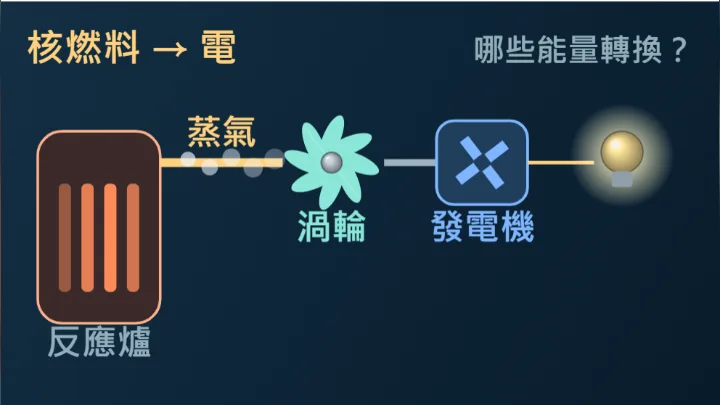
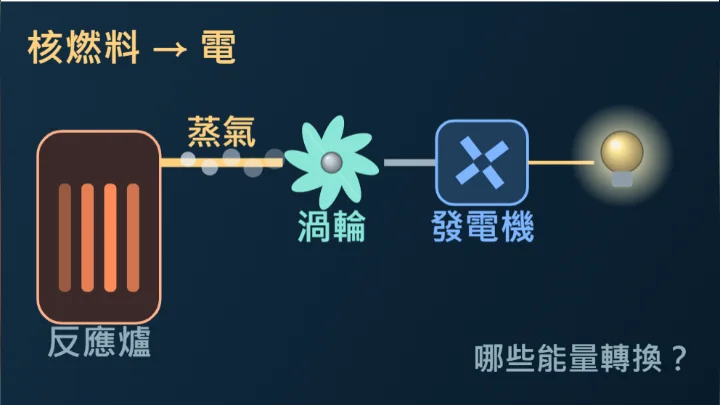
學測 113 題目圖英文版：第 19、24、25 題字不再重疊
第 19 題問句移到右下、英文標題改短、機器標籤英文版倍率調小；第 24 題 Heat out；
第 25 題 Pay 1 unit／Move 2.5 units，公式說明下移。縮圖重產。

Changed region(s): [[0.6417, 0.8296, 0.9778, 0.9185], [0.6417, 0.0889, 0.9778, 0.1778]]

diff --git a/learn.html b/learn.html
@@ -58,7 +58,7 @@
         <section><h3 data-en="Magnetic effects of current">電流的磁效應</h3><a href="current-balance.html?mode=learn&amp;study=1" class="study-link"><img class="module-thumb" data-thumb="current-balance" src="img/thumbs/current-balance-hant-light.webp" alt=""><span data-en="Current balance">電流天平</span><i>↗</i></a></section>
       </div>
     </section>
-    <section id="exam" hidden><a class="lobby-back" href="learn.html" data-en="‹ Physics Study Room">‹ 物理自習室</a><h2 data-en="GSAT science">學測自然科</h2><nav id="exam-years" role="tablist" aria-label="學年度" data-en-aria-label="Exam year"><button type="button" role="tab" aria-selected="true" data-year="114" data-en="2025 (114)">114 學年度</button><button type="button" role="tab" aria-selected="false" data-year="113" data-en="2024 (113)">113 學年度</button></nav><div id="exam-114" role="tabpanel"><p class="exam-year-note" data-en="GSAT, January 2025 · physics questions">114 學測（2025 年 1 月）・物理題</p><div class="exam-entries"><a class="study-link" href="exam-114.html?q=19"><span class="exam-thumb"><img class="module-thumb" data-exam-thumb="exam-114-19" data-v="b3a9e36a" src="img/thumbs/exam-114-19-hant-light.webp?v=b3a9e36a" alt=""><b>19</b></span><span data-en="Satellite orbits">衛星的軌道</span><i>→</i></a><a class="study-link" href="exam-114.html?q=20"><span class="exam-thumb"><img class="module-thumb" data-exam-thumb="exam-114-20" data-v="4937b497" src="img/thumbs/exam-114-20-hant-light.webp?v=4937b497" alt=""><b>20</b></span><span data-en="Melting ice with Bitcoin">比特幣融冰山</span><i>→</i></a><a class="study-link" href="exam-114.html?q=21"><span class="exam-thumb"><img class="module-thumb" data-exam-thumb="exam-114-21" data-v="06e7758c" src="img/thumbs/exam-114-21-hant-light.webp?v=06e7758c" alt=""><b>21</b></span><span data-en="Lifting a reservoir">把水庫抬上玉山</span><i>→</i></a><a class="study-link" href="exam-114.html?q=22"><span class="exam-thumb"><img class="module-thumb" data-exam-thumb="exam-114-22" data-v="fa97e2ad" src="img/thumbs/exam-114-22-hant-light.webp?v=fa97e2ad" alt=""><b>22</b></span><span data-en="Average speed to Mars">飛到火星的平均速率</span><i>→</i></a><a class="study-link" href="exam-114.html?q=23"><span class="exam-thumb"><img class="module-thumb" data-exam-thumb="exam-114-23" data-v="dce8cce7" src="img/thumbs/exam-114-23-hant-light.webp?v=dce8cce7" alt=""><b>23</b></span><span data-en="Signals from a spacecraft">太空船的訊號</span><i>→</i></a><a class="study-link" href="exam-114.html?q=24"><span class="exam-thumb"><img class="module-thumb" data-exam-thumb="exam-114-24" data-v="7d564140" src="img/thumbs/exam-114-24-hant-light.webp?v=7d564140" alt=""><b>24</b></span><span data-en="Atomic energy levels">原子能階</span><i>→</i></a><a class="study-link" href="exam-114.html?q=25"><span class="exam-thumb"><img class="module-thumb" data-exam-thumb="exam-114-25" data-v="9355cca3" src="img/thumbs/exam-114-25-hant-light.webp?v=9355cca3" alt=""><b>25</b></span><span data-en="Electron double slit">電子雙狹縫</span><i>→</i></a><a class="study-link" href="exam-114.html?q=26"><span class="exam-thumb"><img class="module-thumb" data-exam-thumb="exam-114-26" data-v="2d97acb7" src="img/thumbs/exam-114-26-hant-light.webp?v=2d97acb7" alt=""><b>26</b></span><span data-en="Fundamental interactions">四種基本交互作用</span><i>→</i></a><a class="study-link" href="exam-114.html?q=27"><span class="exam-thumb"><img class="module-thumb" data-exam-thumb="exam-114-27" data-v="1c0a8fb7" src="img/thumbs/exam-114-27-hant-light.webp?v=1c0a8fb7" alt=""><b>27</b></span><span data-en="Wireless charging">手機無線充電</span><i>→</i></a><a class="study-link" href="exam-114.html?q=47"><span class="exam-thumb"><img class="module-thumb" data-exam-thumb="exam-114-47" data-v="ed5fa1e2" src="img/thumbs/exam-114-47-hant-light.webp?v=ed5fa1e2" alt=""><b>47</b></span><span data-en="Units in the membrane model">神經細胞膜：單位</span><i>→</i></a><a class="study-link" href="exam-114.html?q=48"><span class="exam-thumb"><img class="module-thumb" data-exam-thumb="exam-114-48" data-v="3ec1ac73" src="img/thumbs/exam-114-48-hant-light.webp?v=3ec1ac73" alt=""><b>48</b></span><span data-en="Equilibrium voltage and temperature">平衡電壓與絕對溫度</span><i>→</i></a><a class="study-link" href="exam-114.html?q=49"><span class="exam-thumb"><img class="module-thumb" data-exam-thumb="exam-114-49" data-v="d47eb398" src="img/thumbs/exam-114-49-hant-light.webp?v=d47eb398" alt=""><b>49</b></span><span data-en="The sodium channel">鈉離子通道</span><i>→</i></a><a class="study-link" href="exam-114.html?q=50"><span class="exam-thumb"><img class="module-thumb" data-exam-thumb="exam-114-50" data-v="a2c1b88e" src="img/thumbs/exam-114-50-hant-light.webp?v=a2c1b88e" alt=""><b>50</b></span><span data-en="Band gap of a photocatalyst">光觸媒的能隙</span><i>→</i></a><a class="study-link" href="exam-114.html?q=51"><span class="exam-thumb"><img class="module-thumb" data-exam-thumb="exam-114-51" data-v="b26057d1" src="img/thumbs/exam-114-51-hant-light.webp?v=b26057d1" alt=""><b>51</b></span><span data-en="Longest usable wavelength">光觸媒的最長波長</span><i>→</i></a></div></div><div id="exam-113" role="tabpanel" hidden><p class="exam-year-note" data-en="GSAT, January 2024 · physics questions">113 學測（2024 年 1 月）・物理題</p><div class="exam-entries"><a class="study-link" href="exam-113.html?q=19"><span class="exam-thumb"><img class="module-thumb" data-exam-thumb="exam-113-19" data-v="b05c241e" src="img/thumbs/exam-113-19-hant-light.webp?v=b05c241e" alt=""><b>19</b></span><span data-en="Nuclear power">核能發電</span><i>→</i></a><a class="study-link" href="exam-113.html?q=20"><span class="exam-thumb"><img class="module-thumb" data-exam-thumb="exam-113-20" data-v="94f756b4" src="img/thumbs/exam-113-20-hant-light.webp?v=94f756b4" alt=""><b>20</b></span><span data-en="Fundamental interactions">四種基本交互作用</span><i>→</i></a><a class="study-link" href="exam-113.html?q=21"><span class="exam-thumb"><img class="module-thumb" data-exam-thumb="exam-113-21" data-v="22f7b631" src="img/thumbs/exam-113-21-hant-light.webp?v=22f7b631" alt=""><b>21</b></span><span data-en="Eyes and cameras">眼睛與相機的成像</span><i>→</i></a><a class="study-link" href="exam-113.html?q=22"><span class="exam-thumb"><img class="module-thumb" data-exam-thumb="exam-113-22" data-v="d2f19479" src="img/thumbs/exam-113-22-hant-light.webp?v=d2f19479" alt=""><b>22</b></span><span data-en="Particles and photons in the beams">射束的粒子與光子</span><i>→</i></a><a class="study-link" href="exam-113.html?q=23"><span class="exam-thumb"><img class="module-thumb" data-exam-thumb="exam-113-23" data-v="7757706e" src="img/thumbs/exam-113-23-hant-light.webp?v=7757706e" alt=""><b>23</b></span><span data-en="Depth and absorbed dose">深度與吸收劑量</span><i>→</i></a><a class="study-link" href="exam-113.html?q=24"><span class="exam-thumb"><img class="module-thumb" data-exam-thumb="exam-113-24" data-v="c41d9dbb" src="img/thumbs/exam-113-24-hant-light.webp?v=c41d9dbb" alt=""><b>24</b></span><span data-en="The refrigeration cycle">冰箱的冷卻循環</span><i>→</i></a><a class="study-link" href="exam-113.html?q=25"><span class="exam-thumb"><img class="module-thumb" data-exam-thumb="exam-113-25" data-v="044aabad" src="img/thumbs/exam-113-25-hant-light.webp?v=044aabad" alt=""><b>25</b></span><span data-en="COP and kilowatt-hours">性能係數與度電</span><i>→</i></a><a class="study-link" href="exam-113.html?q=26"><span class="exam-thumb"><img class="module-thumb" data-exam-thumb="exam-113-26" data-v="214e8e98" src="img/thumbs/exam-113-26-hant-light.webp?v=214e8e98" alt=""><b>26</b></span><span data-en="The airbag’s pressure threshold">安全氣囊的壓力門檻</span><i>→</i></a><a class="study-link" href="exam-113.html?q=27"><span class="exam-thumb"><img class="module-thumb" data-exam-thumb="exam-113-27" data-v="86c2bd86" src="img/thumbs/exam-113-27-hant-light.webp?v=86c2bd86" alt=""><b>27</b></span><span data-en="A constant force in a crash">碰撞中的定力</span><i>→</i></a><a class="study-link" href="exam-113.html?q=44"><span class="exam-thumb"><img class="module-thumb" data-exam-thumb="exam-113-44" data-v="ba4b101d" src="img/thumbs/exam-113-44-hant-light.webp?v=ba4b101d" alt=""><b>44</b></span><span data-en="The force on a magnet through a loop">磁鐵穿越環圈的磁力</span><i>→</i></a><a class="study-link" href="exam-113.html?q=45"><span class="exam-thumb"><img class="module-thumb" data-exam-thumb="exam-113-45" data-v="de2f842c" src="img/thumbs/exam-113-45-hant-light.webp?v=de2f842c" alt=""><b>45</b></span><span data-en="The size of the induced current">感應電流的大小</span><i>→</i></a><a class="study-link" href="exam-113.html?q=46"><span class="exam-thumb"><img class="module-thumb" data-exam-thumb="exam-113-46" data-v="c8a5c8ce" src="img/thumbs/exam-113-46-hant-light.webp?v=c8a5c8ce" alt=""><b>46</b></span><span data-en="Draw the current as the magnet leaves">畫出離開時的應電流</span><i>→</i></a></div></div></section>
+    <section id="exam" hidden><a class="lobby-back" href="learn.html" data-en="‹ Physics Study Room">‹ 物理自習室</a><h2 data-en="GSAT science">學測自然科</h2><nav id="exam-years" role="tablist" aria-label="學年度" data-en-aria-label="Exam year"><button type="button" role="tab" aria-selected="true" data-year="114" data-en="2025 (114)">114 學年度</button><button type="button" role="tab" aria-selected="false" data-year="113" data-en="2024 (113)">113 學年度</button></nav><div id="exam-114" role="tabpanel"><p class="exam-year-note" data-en="GSAT, January 2025 · physics questions">114 學測（2025 年 1 月）・物理題</p><div class="exam-entries"><a class="study-link" href="exam-114.html?q=19"><span class="exam-thumb"><img class="module-thumb" data-exam-thumb="exam-114-19" data-v="b3a9e36a" src="img/thumbs/exam-114-19-hant-light.webp?v=b3a9e36a" alt=""><b>19</b></span><span data-en="Satellite orbits">衛星的軌道</span><i>→</i></a><a class="study-link" href="exam-114.html?q=20"><span class="exam-thumb"><img class="module-thumb" data-exam-thumb="exam-114-20" data-v="4937b497" src="img/thumbs/exam-114-20-hant-light.webp?v=4937b497" alt=""><b>20</b></span><span data-en="Melting ice with Bitcoin">比特幣融冰山</span><i>→</i></a><a class="study-link" href="exam-114.html?q=21"><span class="exam-thumb"><img class="module-thumb" data-exam-thumb="exam-114-21" data-v="06e7758c" src="img/thumbs/exam-114-21-hant-light.webp?v=06e7758c" alt=""><b>21</b></span><span data-en="Lifting a reservoir">把水庫抬上玉山</span><i>→</i></a><a class="study-link" href="exam-114.html?q=22"><span class="exam-thumb"><img class="module-thumb" data-exam-thumb="exam-114-22" data-v="fa97e2ad" src="img/thumbs/exam-114-22-hant-light.webp?v=fa97e2ad" alt=""><b>22</b></span><span data-en="Average speed to Mars">飛到火星的平均速率</span><i>→</i></a><a class="study-link" href="exam-114.html?q=23"><span class="exam-thumb"><img class="module-thumb" data-exam-thumb="exam-114-23" data-v="dce8cce7" src="img/thumbs/exam-114-23-hant-light.webp?v=dce8cce7" alt=""><b>23</b></span><span data-en="Signals from a spacecraft">太空船的訊號</span><i>→</i></a><a class="study-link" href="exam-114.html?q=24"><span class="exam-thumb"><img class="module-thumb" data-exam-thumb="exam-114-24" data-v="7d564140" src="img/thumbs/exam-114-24-hant-light.webp?v=7d564140" alt=""><b>24</b></span><span data-en="Atomic energy levels">原子能階</span><i>→</i></a><a class="study-link" href="exam-114.html?q=25"><span class="exam-thumb"><img class="module-thumb" data-exam-thumb="exam-114-25" data-v="9355cca3" src="img/thumbs/exam-114-25-hant-light.webp?v=9355cca3" alt=""><b>25</b></span><span data-en="Electron double slit">電子雙狹縫</span><i>→</i></a><a class="study-link" href="exam-114.html?q=26"><span class="exam-thumb"><img class="module-thumb" data-exam-thumb="exam-114-26" data-v="2d97acb7" src="img/thumbs/exam-114-26-hant-light.webp?v=2d97acb7" alt=""><b>26</b></span><span data-en="Fundamental interactions">四種基本交互作用</span><i>→</i></a><a class="study-link" href="exam-114.html?q=27"><span class="exam-thumb"><img class="module-thumb" data-exam-thumb="exam-114-27" data-v="1c0a8fb7" src="img/thumbs/exam-114-27-hant-light.webp?v=1c0a8fb7" alt=""><b>27</b></span><span data-en="Wireless charging">手機無線充電</span><i>→</i></a><a class="study-link" href="exam-114.html?q=47"><span class="exam-thumb"><img class="module-thumb" data-exam-thumb="exam-114-47" data-v="ed5fa1e2" src="img/thumbs/exam-114-47-hant-light.webp?v=ed5fa1e2" alt=""><b>47</b></span><span data-en="Units in the membrane model">神經細胞膜：單位</span><i>→</i></a><a class="study-link" href="exam-114.html?q=48"><span class="exam-thumb"><img class="module-thumb" data-exam-thumb="exam-114-48" data-v="3ec1ac73" src="img/thumbs/exam-114-48-hant-light.webp?v=3ec1ac73" alt=""><b>48</b></span><span data-en="Equilibrium voltage and temperature">平衡電壓與絕對溫度</span><i>→</i></a><a class="study-link" href="exam-114.html?q=49"><span class="exam-thumb"><img class="module-thumb" data-exam-thumb="exam-114-49" data-v="d47eb398" src="img/thumbs/exam-114-49-hant-light.webp?v=d47eb398" alt=""><b>49</b></span><span data-en="The sodium channel">鈉離子通道</span><i>→</i></a><a class="study-link" href="exam-114.html?q=50"><span class="exam-thumb"><img class="module-thumb" data-exam-thumb="exam-114-50" data-v="a2c1b88e" src="img/thumbs/exam-114-50-hant-light.webp?v=a2c1b88e" alt=""><b>50</b></span><span data-en="Band gap of a photocatalyst">光觸媒的能隙</span><i>→</i></a><a class="study-link" href="exam-114.html?q=51"><span class="exam-thumb"><img class="module-thumb" data-exam-thumb="exam-114-51" data-v="b26057d1" src="img/thumbs/exam-114-51-hant-light.webp?v=b26057d1" alt=""><b>51</b></span><span data-en="Longest usable wavelength">光觸媒的最長波長</span><i>→</i></a></div></div><div id="exam-113" role="tabpanel" hidden><p class="exam-year-note" data-en="GSAT, January 2024 · physics questions">113 學測（2024 年 1 月）・物理題</p><div class="exam-entries"><a class="study-link" href="exam-113.html?q=19"><span class="exam-thumb"><img class="module-thumb" data-exam-thumb="exam-113-19" data-v="9685140b" src="img/thumbs/exam-113-19-hant-light.webp?v=9685140b" alt=""><b>19</b></span><span data-en="Nuclear power">核能發電</span><i>→</i></a><a class="study-link" href="exam-113.html?q=20"><span class="exam-thumb"><img class="module-thumb" data-exam-thumb="exam-113-20" data-v="94f756b4" src="img/thumbs/exam-113-20-hant-light.webp?v=94f756b4" alt=""><b>20</b></span><span data-en="Fundamental interactions">四種基本交互作用</span><i>→</i></a><a class="study-link" href="exam-113.html?q=21"><span class="exam-thumb"><img class="module-thumb" data-exam-thumb="exam-113-21" data-v="22f7b631" src="img/thumbs/exam-113-21-hant-light.webp?v=22f7b631" alt=""><b>21</b></span><span data-en="Eyes and cameras">眼睛與相機的成像</span><i>→</i></a><a class="study-link" href="exam-113.html?q=22"><span class="exam-thumb"><img class="module-thumb" data-exam-thumb="exam-113-22" data-v="d2f19479" src="img/thumbs/exam-113-22-hant-light.webp?v=d2f19479" alt=""><b>22</b></span><span data-en="Particles and photons in the beams">射束的粒子與光子</span><i>→</i></a><a class="study-link" href="exam-113.html?q=23"><span class="exam-thumb"><img class="module-thumb" data-exam-thumb="exam-113-23" data-v="7757706e" src="img/thumbs/exam-113-23-hant-light.webp?v=7757706e" alt=""><b>23</b></span><span data-en="Depth and absorbed dose">深度與吸收劑量</span><i>→</i></a><a class="study-link" href="exam-113.html?q=24"><span class="exam-thumb"><img class="module-thumb" data-exam-thumb="exam-113-24" data-v="f36bdf4a" src="img/thumbs/exam-113-24-hant-light.webp?v=f36bdf4a" alt=""><b>24</b></span><span data-en="The refrigeration cycle">冰箱的冷卻循環</span><i>→</i></a><a class="study-link" href="exam-113.html?q=25"><span class="exam-thumb"><img class="module-thumb" data-exam-thumb="exam-113-25" data-v="eb7f5a4d" src="img/thumbs/exam-113-25-hant-light.webp?v=eb7f5a4d" alt=""><b>25</b></span><span data-en="COP and kilowatt-hours">性能係數與度電</span><i>→</i></a><a class="study-link" href="exam-113.html?q=26"><span class="exam-thumb"><img class="module-thumb" data-exam-thumb="exam-113-26" data-v="214e8e98" src="img/thumbs/exam-113-26-hant-light.webp?v=214e8e98" alt=""><b>26</b></span><span data-en="The airbag’s pressure threshold">安全氣囊的壓力門檻</span><i>→</i></a><a class="study-link" href="exam-113.html?q=27"><span class="exam-thumb"><img class="module-thumb" data-exam-thumb="exam-113-27" data-v="86c2bd86" src="img/thumbs/exam-113-27-hant-light.webp?v=86c2bd86" alt=""><b>27</b></span><span data-en="A constant force in a crash">碰撞中的定力</span><i>→</i></a><a class="study-link" href="exam-113.html?q=44"><span class="exam-thumb"><img class="module-thumb" data-exam-thumb="exam-113-44" data-v="ba4b101d" src="img/thumbs/exam-113-44-hant-light.webp?v=ba4b101d" alt=""><b>44</b></span><span data-en="The force on a magnet through a loop">磁鐵穿越環圈的磁力</span><i>→</i></a><a class="study-link" href="exam-113.html?q=45"><span class="exam-thumb"><img class="module-thumb" data-exam-thumb="exam-113-45" data-v="de2f842c" src="img/thumbs/exam-113-45-hant-light.webp?v=de2f842c" alt=""><b>45</b></span><span data-en="The size of the induced current">感應電流的大小</span><i>→</i></a><a class="study-link" href="exam-113.html?q=46"><span class="exam-thumb"><img class="module-thumb" data-exam-thumb="exam-113-46" data-v="c8a5c8ce" src="img/thumbs/exam-113-46-hant-light.webp?v=c8a5c8ce" alt=""><b>46</b></span><span data-en="Draw the current as the magnet leaves">畫出離開時的應電流</span><i>→</i></a></div></div></section>
   </main>
   </div>
   <script src="js/thumbs.js?v=202611212216"></script><script src="js/firebase-config.js?v=202611212216"></script><script src="js/missions/index.js?v=202611212216"></script><script src="js/missions.js?v=202611212216"></script><script src="js/missions/learn-phy-5-1.js?v=202611212216"></script><script src="js/missions/exam-114.js?v=202611212216"></script><script src="js/comments.js?v=202611212216"></script>

diff --git a/js/exam/113/q19.js b/js/exam/113/q19.js
@@ -107,7 +107,7 @@
   ExamScene.add(19,{
     state:()=>({row:'',id:'',part:0,t:0,hands:false,chain:[],wrong:false,clean:true,done:false}),
     paint,
-    preview(g){const s={t:1.2};g.save();g.translate(8,-22);g.scale(1.12,1.12);K.boost(1.45,()=>plant(g,s,'all',14,200));g.restore();K.boost(1.45,()=>{label(g,T('核燃料 → 電','Nuclear fuel → electricity'),16,34,C.gold,17);label(g,T('哪些能量轉換？','Which conversions?'),444,34,C.faint,14,'right');});},
+    preview(g){const s={t:1.2};g.save();g.translate(8,-22);g.scale(1.12,1.12);K.boost(LabSettings.lang==='en'?1.2:1.45,()=>plant(g,s,'all',14,200));g.restore();K.boost(1.45,()=>{label(g,T('核燃料 → 電','Fuel → electricity'),16,34,C.gold,17);label(g,T('哪些能量轉換？','Which conversions?'),444,232,C.faint,14,'right');});},
     lesson(s,p,part,t){s.row=p.row;s.id=p.id;s.part=part;s.t=t;},
     interactive({s,controls,btn,complete,render}){
       s.hands=true;let raf=0;const tick=now=>{s.t=now/1000;render();raf=requestAnimationFrame(tick);};

diff --git a/js/exam/113/q24.js b/js/exam/113/q24.js
@@ -74,7 +74,7 @@
   ExamScene.add(24,{
     state:()=>({row:'',id:'',part:0,t:0,hands:false,h:0,on:true}),
     paint,
-    preview(g){K.boost(1.6,()=>{fridge(g,140,18,180,188,0,{tags:true});arrow(g,20,150,128,150,COLD,4,12);label(g,T('裡面的熱','Heat inside'),20,134,COLD,13);arrow(g,362,178,448,178,HOT,4,12);label(g,T('丟到外面','Out the back'),448,162,HOT,13,'right');});},
+    preview(g){K.boost(1.6,()=>{fridge(g,140,18,180,188,0,{tags:true});arrow(g,20,150,128,150,COLD,4,12);label(g,T('裡面的熱','Heat inside'),20,134,COLD,13);arrow(g,362,178,448,178,HOT,4,12);label(g,T('丟到外面','Heat out'),448,162,HOT,13,'right');});},
     lesson(s,p,part,t){s.row=p.row;s.id=p.id;s.part=part;s.t=t;},
     interactive({s,range,toggle,complete,render}){
       s.hands=true;let raf=0;const tick=now=>{s.t=now/1000;render();raf=requestAnimationFrame(tick);};raf=requestAnimationFrame(tick);addEventListener('pagehide',()=>cancelAnimationFrame(raf));

diff --git a/js/exam/113/q25.js b/js/exam/113/q25.js
@@ -39,7 +39,7 @@
   ExamScene.add(25,{
     state:()=>({row:'',id:'',part:0,t:0,hands:false,kwh:2,cop:2}),
     paint,
-    preview(g){K.boost(1.7,()=>{blocks(g,36,70,1,GOLD,T('付 1 份電','Pay for one'),58);blocks(g,36,168,2.5,COLD,T('搬 2.5 份熱','Move two and a half'),58);});sci(g,'COP = 2.5',340,128,C.white,42,'center');label(g,T('搬的熱 ÷ 付的電','heat moved ÷ energy paid'),340,170,C.faint,19,'center');},
+    preview(g){K.boost(1.7,()=>{blocks(g,36,70,1,GOLD,T('付 1 份電','Pay 1 unit'),58);blocks(g,36,168,2.5,COLD,T('搬 2.5 份熱','Move 2.5 units'),58);});sci(g,'COP = 2.5',340,128,C.white,42,'center');label(g,T('搬的熱 ÷ 付的電','heat moved ÷ energy paid'),340,190,C.faint,19,'center');},
     lesson(s,p,part,t){s.row=p.row;s.id=p.id;s.part=part;s.t=t;},
     interactive({s,range,complete}){
       s.hands=true;const ok=()=>{if(Math.abs(s.kwh-1)<1e-9&&Math.abs(s.cop-2.5)<1e-9)complete();};
